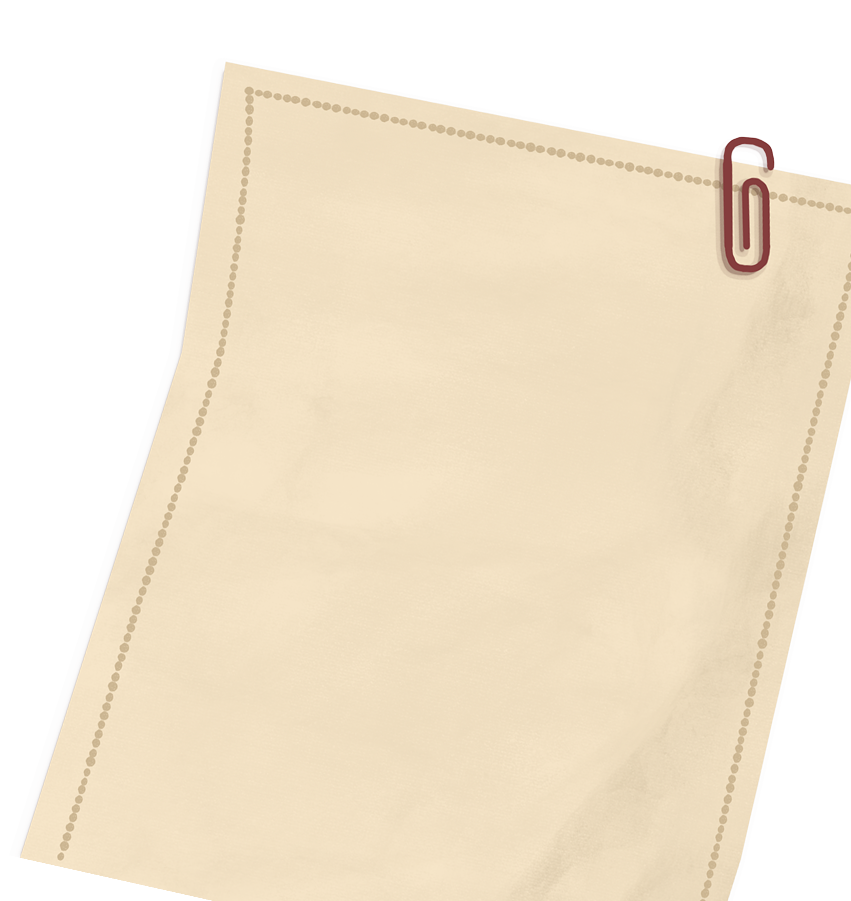
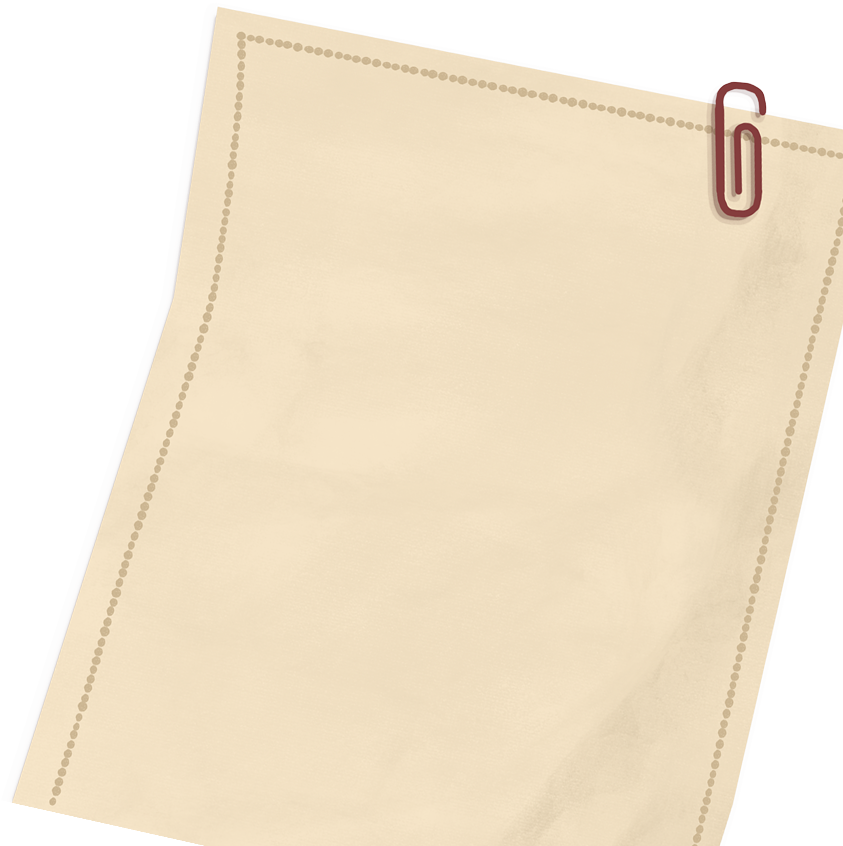
Title screen

Changed region(s): [[0.0, 0.0, 1.0, 0.9527]]

diff --git a/src/app/episodes/components/episode-title-screen/episode-title-screen.component.scss b/src/app/episodes/components/episode-title-screen/episode-title-screen.component.scss
@@ -1,33 +1,32 @@
 @import "../../../../styles/figma-functions";
 
 .episode-title-screen__links {
-  --image-ratio: 851 / 901;
-  @media screen and (orientation: landscape) {
-    --image-width: 45vw;
-    --image-height: calc(1 / calc(var(--image-ratio)) * var(--image-width));
-  }
-
-  @media screen and (orientation: portrait) {
-    --image-width: 103.5vw;
-    --image-height: calc(1 / calc(var(--image-ratio)) * var(--image-width) * 0.675);
-  }
+  --image-ratio: 843 / 846;
 
   display: flex;
   flex-direction: column;
   justify-content: center;
   gap: calc(var(--spacer) * 2);
   position: absolute;
-  bottom: 0;
   right: 0;
-  padding-top: calc(var(--spacer) * 10);
-  padding-right: 5vw;
-  padding-left: 8.5vw;
-  width: var(--image-width);
-  height: var(--image-height);
+  bottom: 0;
   background-image: url("/images/Fiche_01_UI_assets 1.png");
   background-position: center top;
   background-repeat: no-repeat;
   background-size: cover;
+  
+  @media screen and (orientation: landscape) {
+    padding: 6rem 2rem 0rem 5rem;
+    width: min(45%, var(--screen-landscape-max-width) * 0.45);
+    aspect-ratio: var(--image-ratio);
+  }
+
+  @media screen and (orientation: portrait) {
+    padding: 5rem 2.5rem 2.5rem;
+    width: 100vw;
+    background-position: right top;
+    background-size: 130%;
+  }
 
   .btn {
     border-radius: figma-radius-to-rem(40);

diff --git a/src/styles.scss b/src/styles.scss
@@ -39,7 +39,7 @@ html {
   }
 
   @media screen and (orientation: portrait) {
-    font-size: 2vw;
+    font-size: 1.5vh;
   }
 }
 
